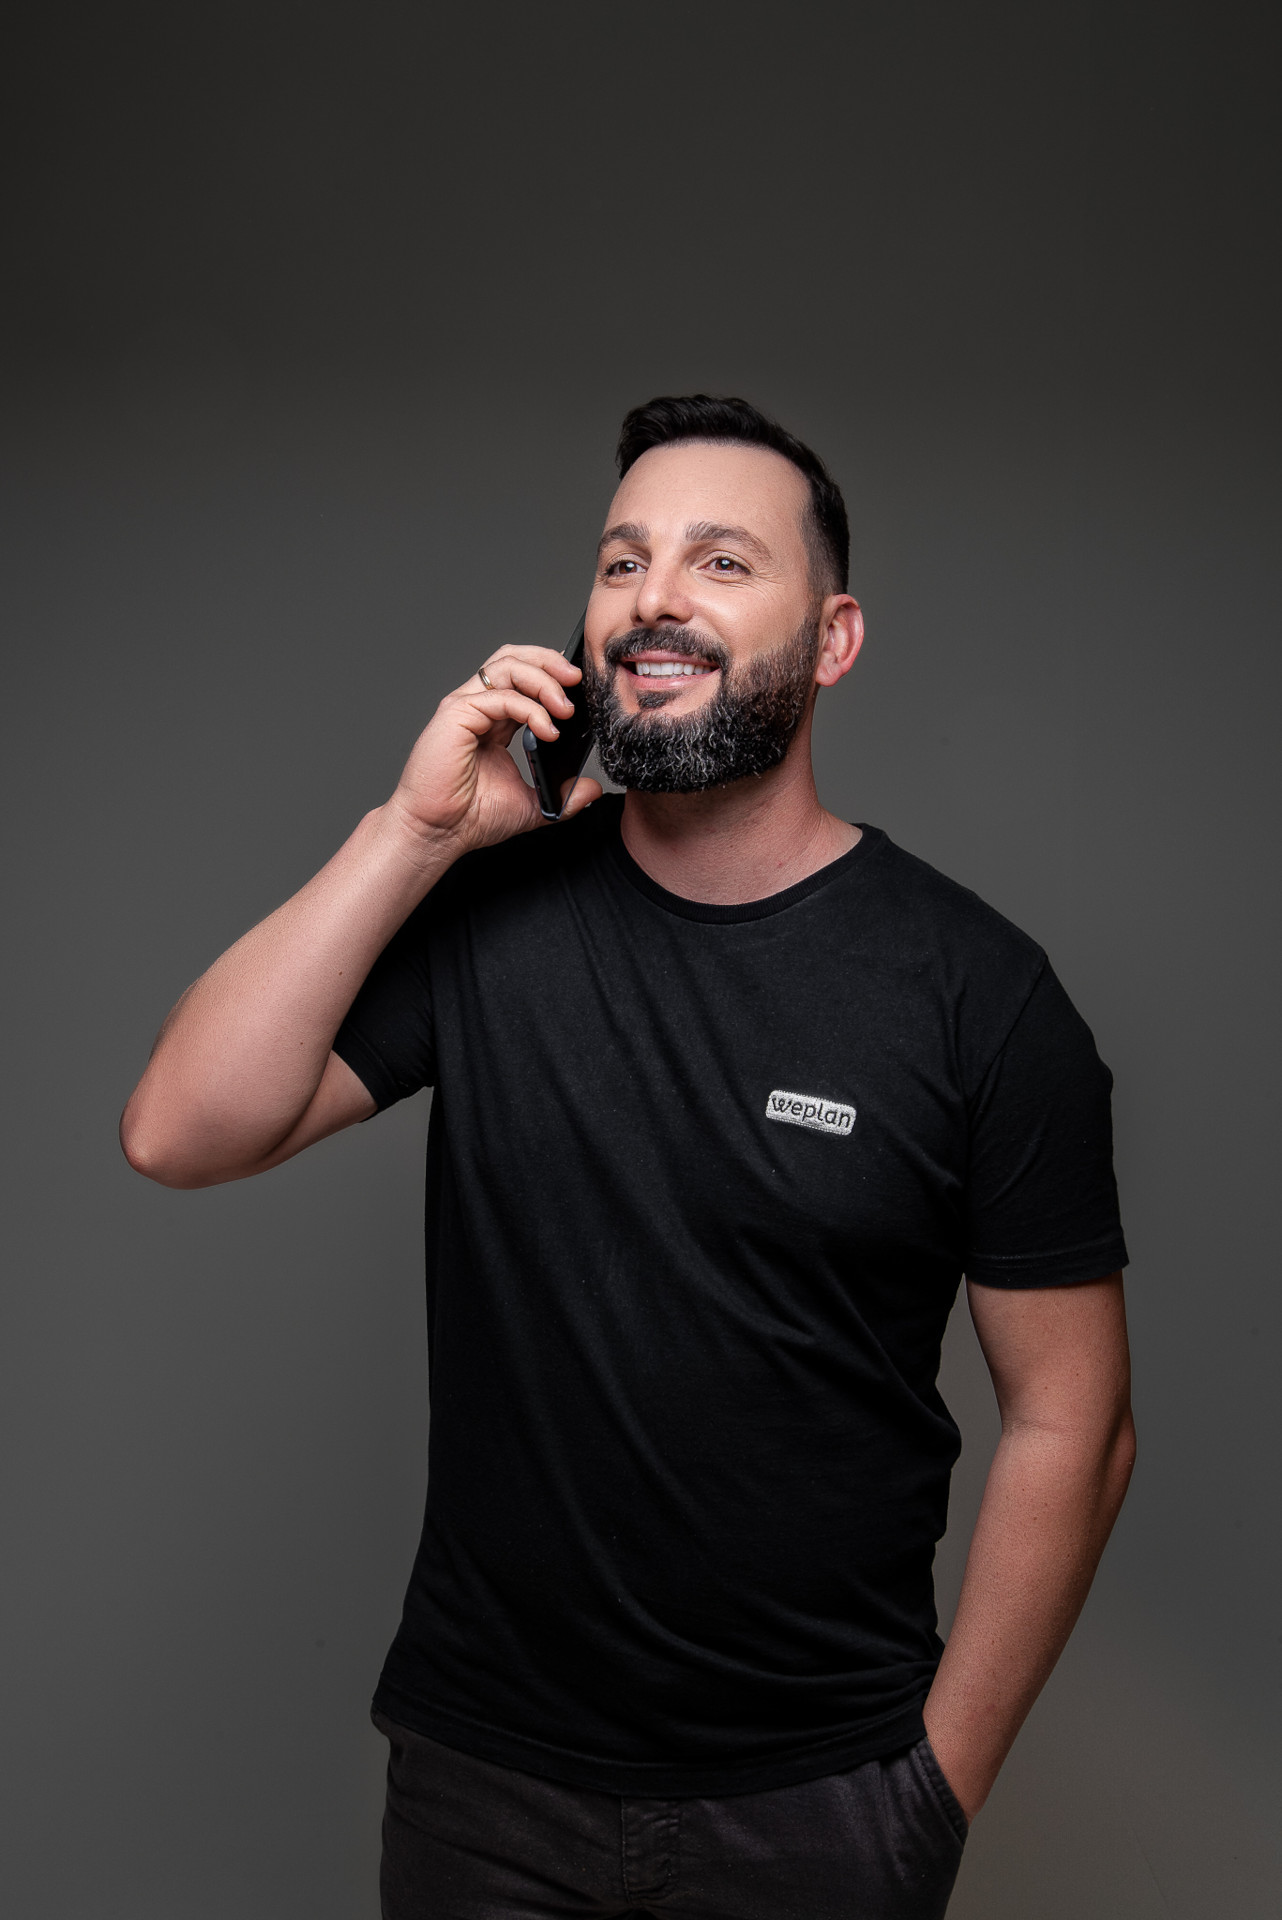
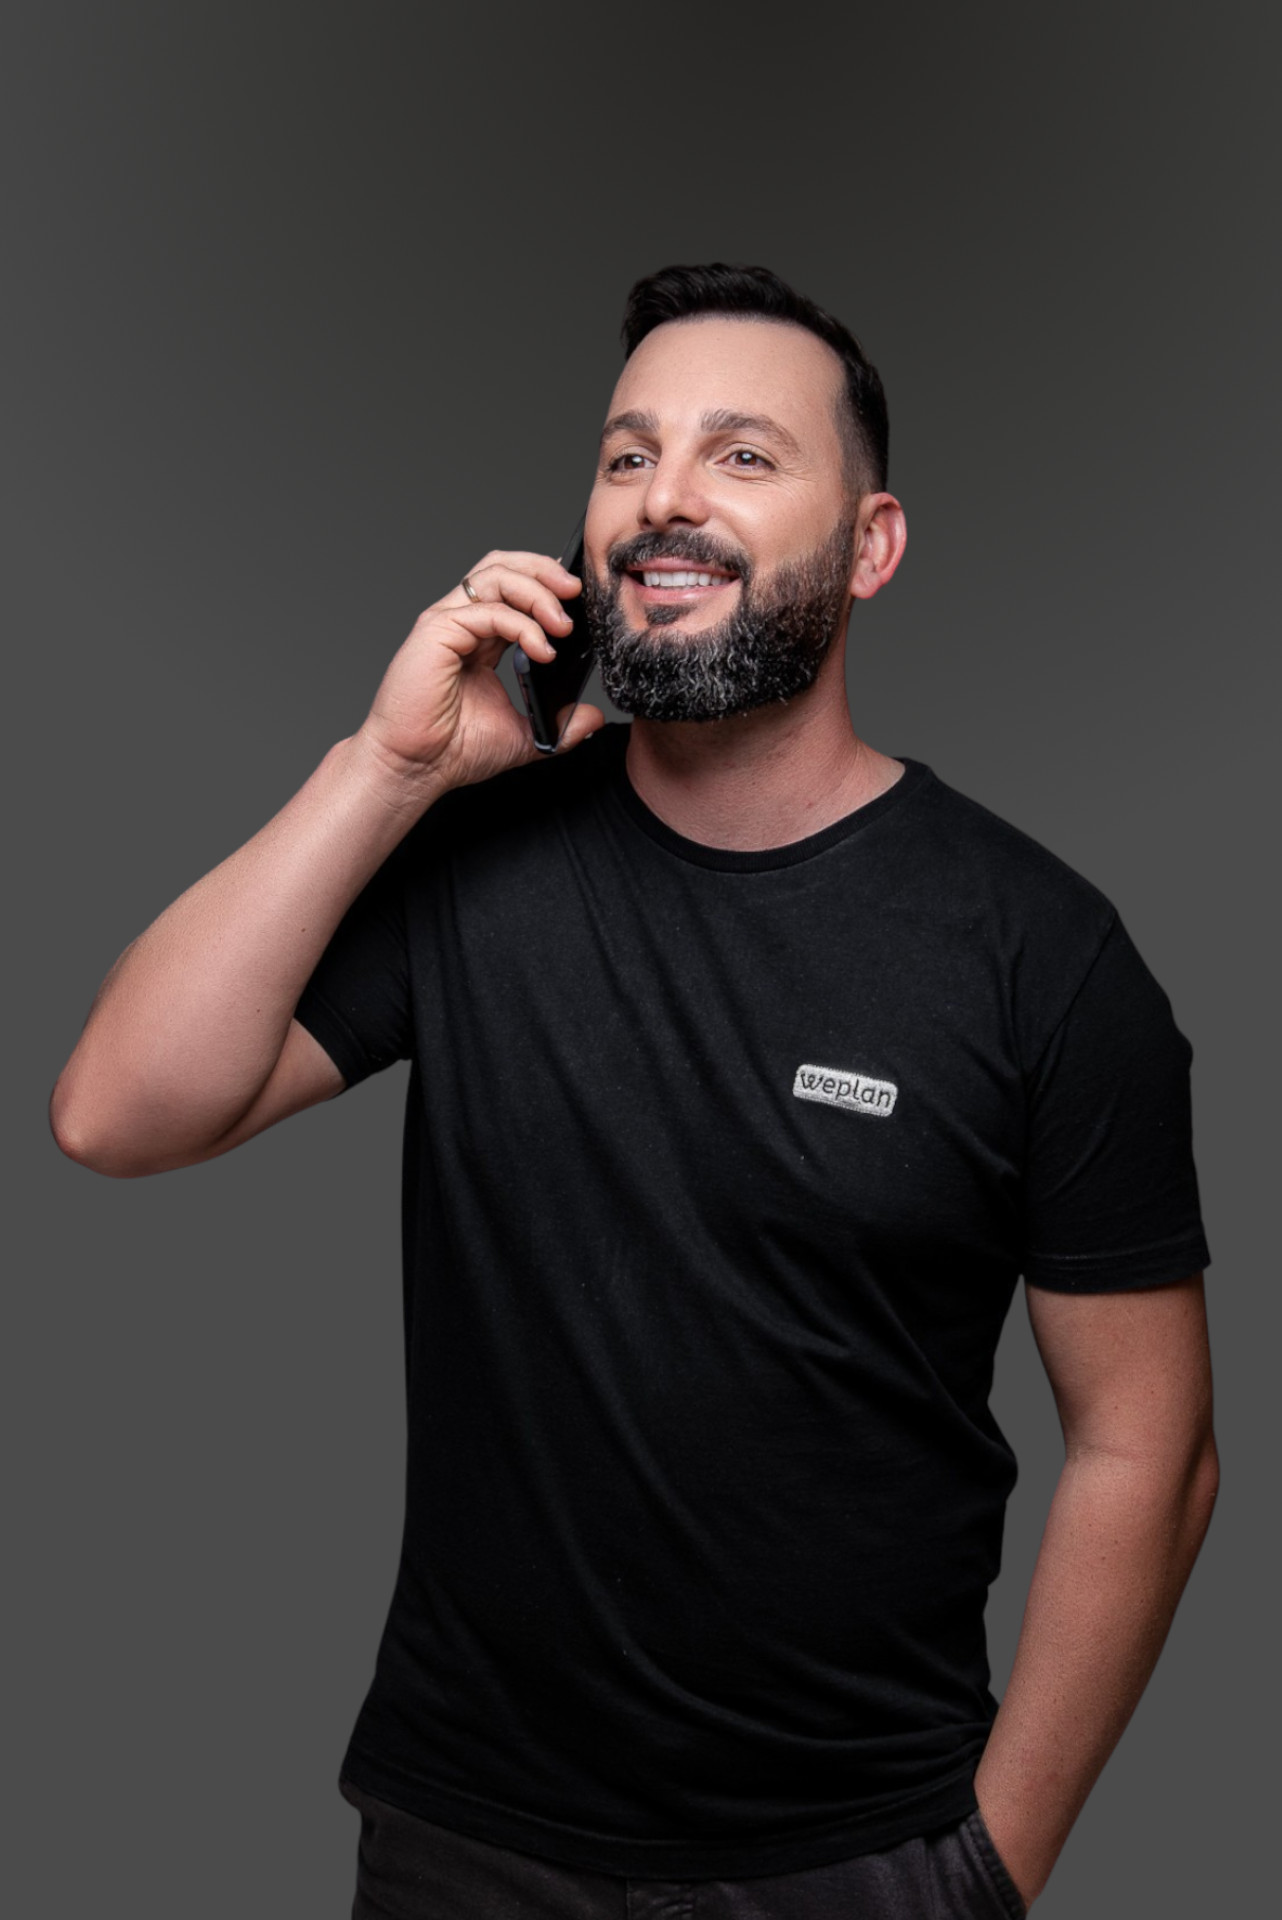
Improved seja nosso parceiro page
Improved images of the section 1.

diff --git a/pages/seja-nosso-parceiro.vue b/pages/seja-nosso-parceiro.vue
@@ -2,17 +2,17 @@
   <div>
     <b-container fluid class="section-1">
       <b-row>
-        <b-col id="img-profissional-interiores" class="img-background text-block" cols="4">
+        <b-col class="img-profissional-interiores img-height-1000px img-background text-block" cols="4">
           <b-link to="#profissional-interiores">
             <h2>Sou profissional de interiores</h2>
           </b-link>
         </b-col>
-        <b-col id="img-montador" class="img-background text-block" cols="4">
+        <b-col class="img-montador img-height-1000px img-background text-block" cols="4">
           <b-link to="#montador">
             <h2>Sou montador</h2>
           </b-link>
         </b-col>
-        <b-col id="img-fornecedor" class="img-background text-block" cols="4">
+        <b-col class="img-fornecedor img-height-1000px img-background text-block" cols="4">
           <b-link to="#fornecedor">
             <h2>Sou fornecedor</h2>
           </b-link>
@@ -75,6 +75,45 @@
         </b-col>
       </b-row>
     </b-container>
+    <b-container fluid class="section-5">
+      <b-row>
+        <b-container fluid>
+          <b-row id="profissional-interiores" class="inverted-colors">
+            <b-col class="img-profissional-interiores img-height-600px img-background text-block" cols="12" md="6">
+              <div>
+                <h2>Sou profissional de interiores</h2>
+                <span class="button-link d-md-none">Quero ser parceiro</span>
+              </div>
+            </b-col>
+            <b-col cols="12" md="6" class="align-self-center text-center d-none d-md-block">
+              <span class="button-link">Quero ser parceiro</span>
+            </b-col>
+          </b-row>
+          <b-row id="montador">
+            <b-col cols="12" md="6" class="align-self-center text-center d-none d-md-block">
+              <span class="button-link">Quero ser parceiro</span>
+            </b-col>
+            <b-col class="img-montador img-height-600px img-background text-block" cols="12" md="6">
+              <div>
+                <h2>Sou montador</h2>
+                <span class="button-link d-md-none">Quero ser parceiro</span>
+              </div>
+            </b-col>
+          </b-row>
+          <b-row id="fornecedor" class="inverted-colors">
+            <b-col class="img-fornecedor img-height-600px img-background text-block" cols="12" md="6">
+              <div>
+                <h2>Sou fornecedor</h2>
+                <span class="button-link d-md-none">Quero ser parceiro</span>
+              </div>
+            </b-col>
+            <b-col cols="12" md="6" class="align-self-center text-center d-none d-md-block">
+              <span class="button-link">Quero ser parceiro</span>
+            </b-col>
+          </b-row>
+        </b-container>
+      </b-row>
+    </b-container>
   </div>
 </template>
 <script>
@@ -120,19 +159,27 @@ export default {
   font-weight: 500 !important;
 }
 
-#img-profissional-interiores {
+.button-link {
+  font-size: 3rem;
+  display: block;
+  margin-left: 2rem;
+  margin-right: 2rem;
+}
+
+.button-link.d-md-none {
+  font-size: 1.5rem;
+}
+
+.img-profissional-interiores {
   background-image: url('~/assets/images/profissional-interiores.jpg');
-  height: 1000px;
 }
 
-#img-montador {
+.img-montador {
   background-image: url('~/assets/images/montador.jpg');
-  height: 1000px;
 }
 
-#img-fornecedor {
+.img-fornecedor {
   background-image: url('~/assets/images/fornecedor.jpg');
-  height: 1000px;
 }
 
 #img-mercado {

diff --git a/assets/styles/main.css b/assets/styles/main.css
@@ -13,7 +13,7 @@ a {
 }
 
 .page-subtitle {
-  font-size: 3vw;
+  font-size: 2.5vw;
   font-weight: 600 !important;
 }
 
@@ -61,6 +61,14 @@ a {
   box-shadow: 4px 4px 20px -10px #1c1c1c;
 }
 
+.img-height-1000px {
+  height: 1000px;
+}
+
+.img-height-600px {
+  height: 600px;
+}
+
 .button-link {
   text-decoration: none;
   font-weight: 700 !important;
@@ -76,6 +84,7 @@ a {
   background-color: #2c2c2c;
   text-decoration: none;
   color: #fff;
+  cursor: pointer;
 }
 
 .highlighted-words-purple {
@@ -174,6 +183,7 @@ a.highlighted-words-yellow:focus {
   font-size: 3rem;
   text-align: center;
   font-weight: 800 !important;
+  color: #fff;
 }
 
 .text-block a h2 {
@@ -210,7 +220,7 @@ a.highlighted-words-yellow:focus {
   }
 
   .page-subtitle {
-    font-size: 5vw;
+    font-size: 4.5vw;
   }
 }
 
@@ -220,7 +230,7 @@ a.highlighted-words-yellow:focus {
   }
 
   .page-subtitle {
-    font-size: 2vw;
+    font-size: 1.5vw;
   }
 }
 
